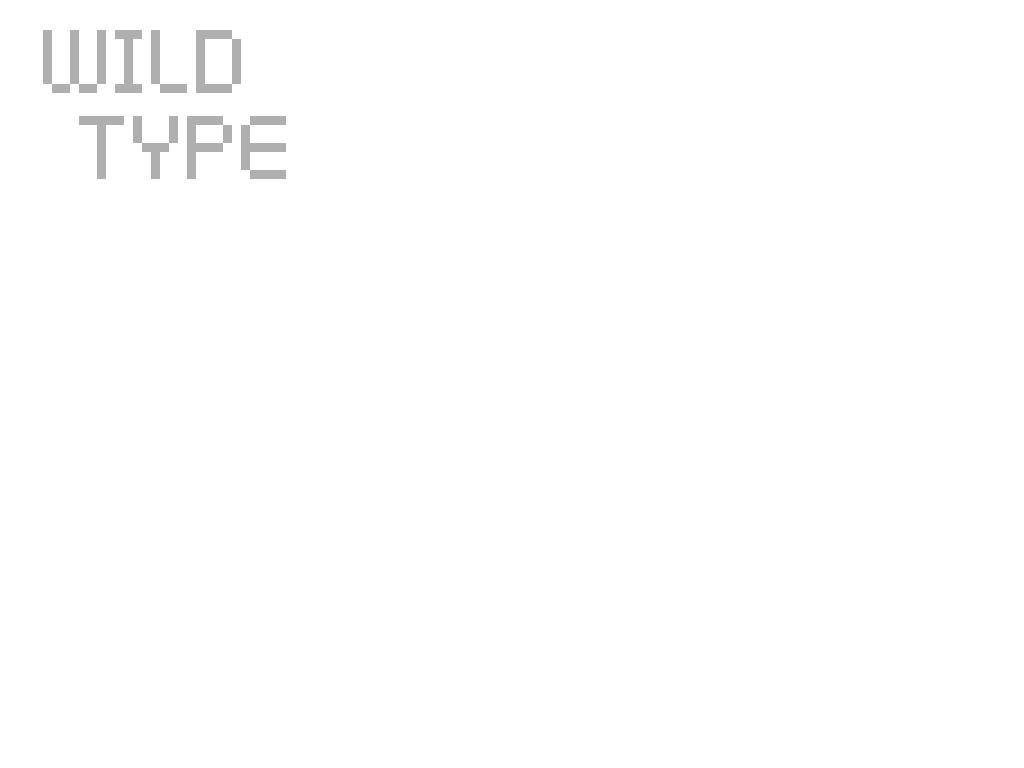
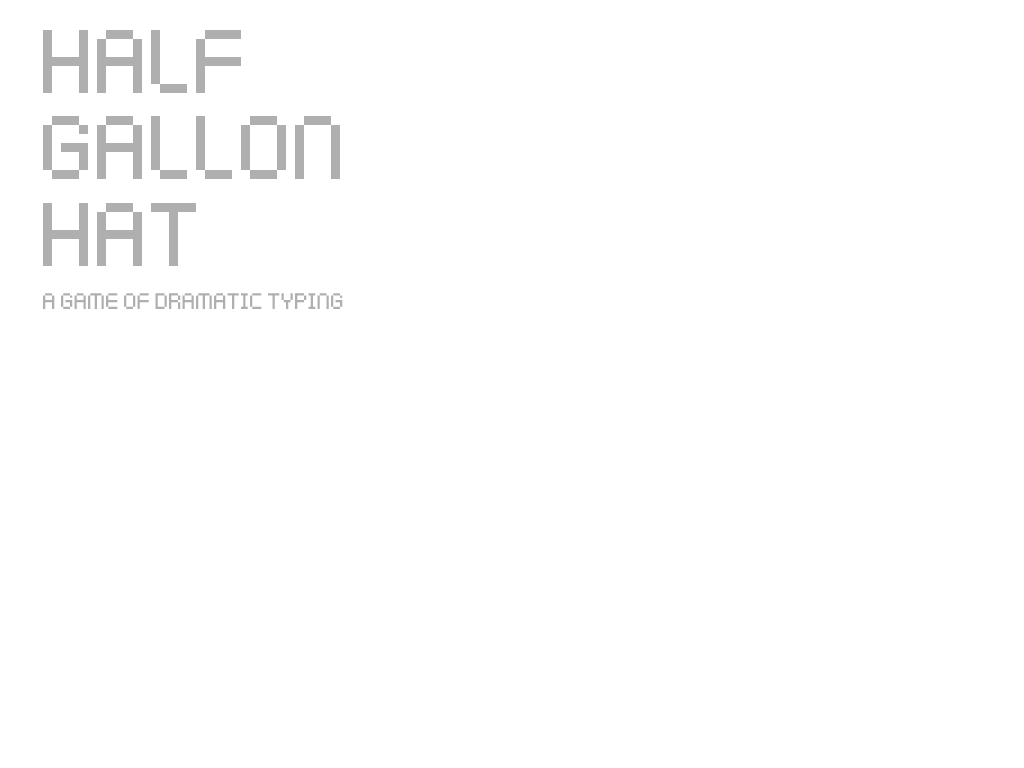
added css for rStats, changed intro art to reflect correct working title

Changed region(s): [[0.0312, 0.0312, 0.3438, 0.3438], [0.0312, 0.375, 0.3438, 0.4062]]

diff --git a/css/rStats.css b/css/rStats.css
@@ -1,0 +1,73 @@
+.rs-base{
+    position: absolute;
+    z-index: 10000;
+    padding: 10px;
+    background-color: #222;
+    font-size: 10px;
+    line-height: 1.2em;
+    width: 350px;
+    font-family: 'Roboto Condensed', tahoma, sans-serif;
+    left: 0;
+    top: 0;
+    overflow: hidden;
+}
+
+.rs-base h1{
+    margin: 0;
+    padding: 0;
+    font-size: 1.4em;
+    color: #fff;
+    margin-bottom: 5px;
+    cursor: pointer;
+}
+
+.rs-base div.rs-group{
+    margin-bottom: 10px;
+}
+
+.rs-base div.rs-group.hidden{
+    display: none;
+}
+
+.rs-base div.rs-fraction{
+    position: relative;
+    margin-bottom: 5px;
+}
+
+.rs-base div.rs-fraction p{
+    width: 120px;
+    text-align: right;
+    margin: 0;
+    padding: 0;
+}
+
+.rs-base div.rs-legend{
+    position: absolute;
+    line-height: 1em;
+}
+
+.rs-base div.rs-counter-base{
+    position: relative;
+    margin: 2px 0;
+    height: 1em;
+}
+
+.rs-base span.rs-counter-id{
+    position: absolute;
+    left: 0;
+    top: 0;
+}
+
+.rs-base div.rs-counter-value{
+    position: absolute;
+    left: 90px;
+    width: 30px;
+    height: 1em;
+    top: 0;
+    text-align: right;
+}
+
+.rs-base canvas.rs-canvas{
+    position: absolute;
+    right: 0;
+}

diff --git a/js/rStats.js b/js/rStats.js
@@ -50,7 +50,7 @@ function rStats( settings ) {
         _colours = [ '#850700', '#c74900', '#fcb300', '#284280', '#4c7c0c' ];
 
     importCSS( 'http://fonts.googleapis.com/css?family=Roboto+Condensed:400,700,300' );
-    importCSS( ( _settings.CSSPath?_settings.CSSPath:'' ) + 'rStats.css' );
+    importCSS( ( _settings.CSSPath?_settings.CSSPath:'' ) + '/css/rStats.css' );
 
     if( !_settings.values ) _settings.values = {};
 

diff --git a/index.html b/index.html
@@ -9,6 +9,7 @@
 			background-color: #000000;
 		}
 	</style>
+	<link href="css/rStats.css" rel="stylesheet" type="text/css">
 	<script src="js/pixi.js"></script>
 	<script src="js/jquery-2.1.3.min.js"></script>
 	<script src="js/rStats.js"></script>
